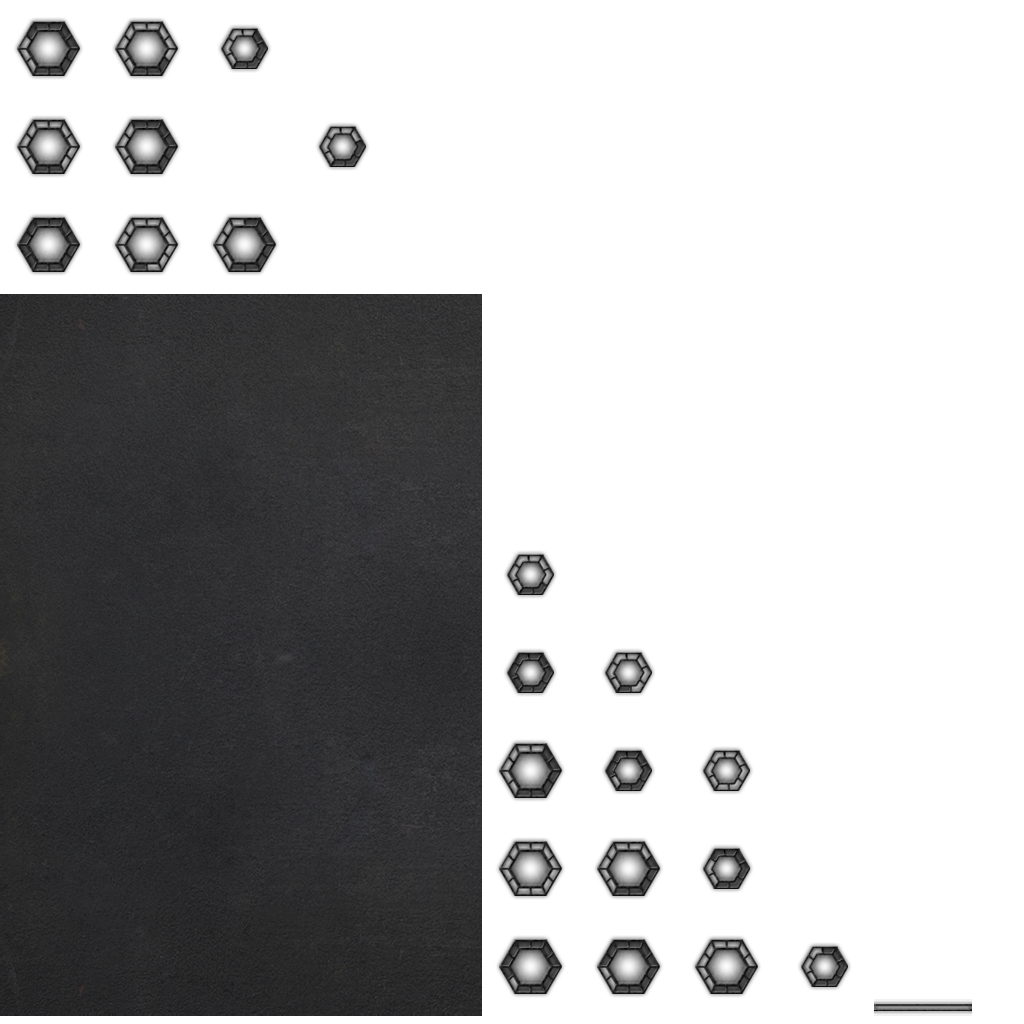
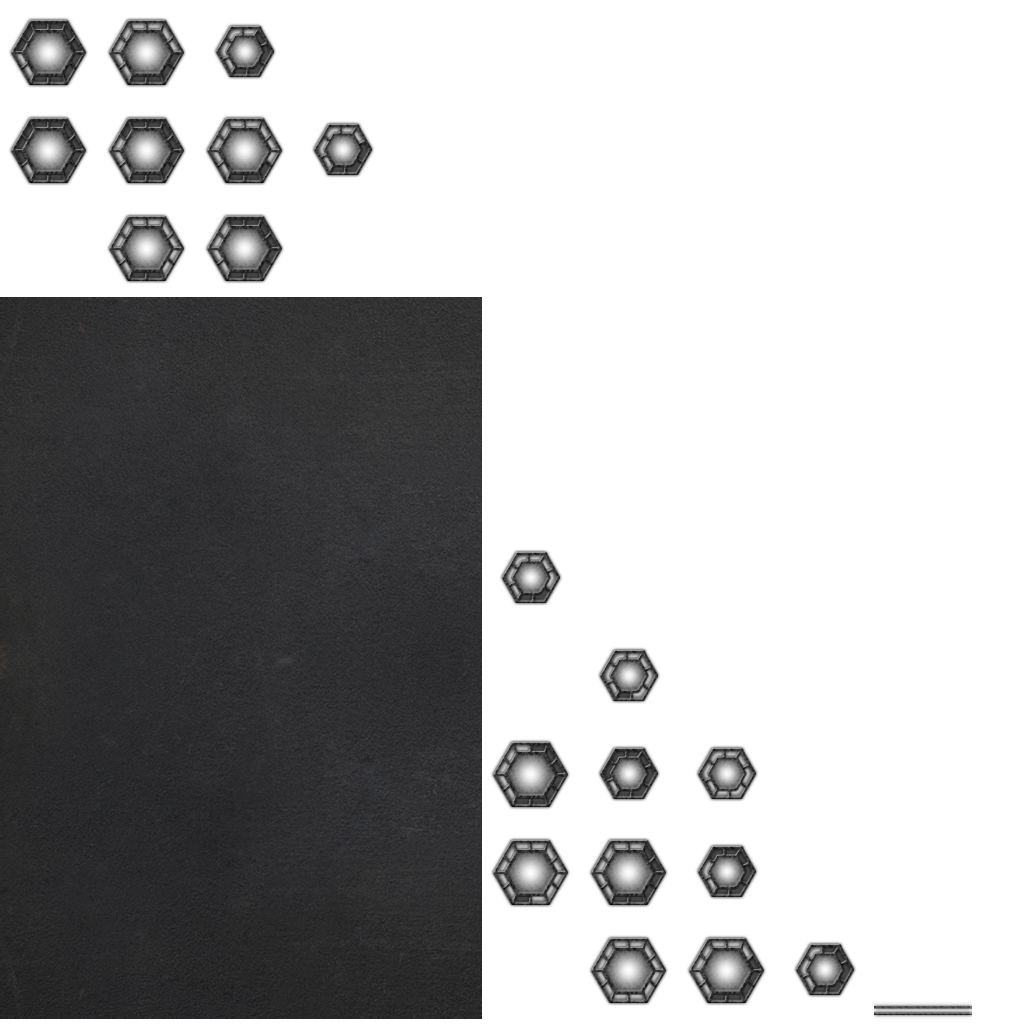
add backlight texture for selected cells, cells now bigger

diff --git a/influence/src/com/teremok/influence/view/CellDrawer.java b/influence/src/com/teremok/influence/view/CellDrawer.java
@@ -7,8 +7,6 @@ import com.badlogic.gdx.graphics.g2d.BitmapFont;
 import com.badlogic.gdx.graphics.g2d.SpriteBatch;
 import com.badlogic.gdx.graphics.g2d.TextureAtlas;
 import com.badlogic.gdx.graphics.g2d.TextureRegion;
-import com.badlogic.gdx.graphics.glutils.ShapeRenderer;
-import com.badlogic.gdx.scenes.scene2d.ui.Image;
 import com.badlogic.gdx.utils.Array;
 import com.teremok.influence.model.Cell;
 
@@ -17,14 +15,13 @@ import com.teremok.influence.model.Cell;
  */
 public class CellDrawer extends AbstractDrawer<Cell> {
 
-    private static final float STANDARD_SIZE_MULTIPLIER = 0.4f;
-    private static final float BIG_SIZE_MULTIPLIER = 0.6f;
-
     private TextureAtlas atlas;
     Array<TextureAtlas.AtlasRegion> cellSmall;
     Array<TextureAtlas.AtlasRegion> cellBig;
     TextureRegion maskSmall;
     TextureRegion maskBig;
+    TextureRegion backlightSmall;
+    TextureRegion backlightBig;
 
     public CellDrawer() {
         super();
@@ -34,13 +31,15 @@ public class CellDrawer extends AbstractDrawer<Cell> {
         for (Texture txt : atlas.getTextures()) {
             txt.setFilter(Texture.TextureFilter.Linear, Texture.TextureFilter.Linear);
         }
-        cellBig = atlas.findRegions("big");
 
         cellSmall = atlas.findRegions("small");
+        cellBig = atlas.findRegions("big");
 
         maskSmall = atlas.findRegion("maskSmall");
         maskBig = atlas.findRegion("maskBig");
 
+        backlightSmall = atlas.findRegion("backlightSmall");
+        backlightBig = atlas.findRegion("backlightBig");
     }
 
     @Override
@@ -58,19 +57,6 @@ public class CellDrawer extends AbstractDrawer<Cell> {
             drawSmallCell(batch);
         }
 
-        batch.end();
-
-        //drawBoundingBox();
-
-        renderer.begin(ShapeRenderer.ShapeType.Line);
-        if (current.isSelected()) {
-            renderer.setColor(Color.WHITE);
-            renderer.circle(current.getWidth()/2, current.getHeight()/2, Drawer.UNIT_SIZE * BIG_SIZE_MULTIPLIER);
-        }
-        renderer.end();
-
-        batch.begin();
-
         if (bitmapFont != null) {
             BitmapFont.TextBounds textBounds = bitmapFont.getBounds(current.getPower()+"");
             bitmapFont.setColor(Color.BLACK);
@@ -80,6 +66,11 @@ public class CellDrawer extends AbstractDrawer<Cell> {
     }
 
     private void drawBigCell(SpriteBatch batch) {
+
+        if (current.isSelected()){
+            batch.draw(backlightBig, current.getX(), current.getY());
+        }
+
         batch.draw(maskBig, current.getX(), current.getY());
         batch.setColor(Color.WHITE);
         if (current.getType() == -1)  {
@@ -90,6 +81,11 @@ public class CellDrawer extends AbstractDrawer<Cell> {
     }
 
     private void drawSmallCell(SpriteBatch batch) {
+
+        if (current.isSelected()){
+            batch.draw(backlightSmall, current.getX(), current.getY());
+        }
+
         batch.draw(maskSmall, current.getX(), current.getY());
         batch.setColor(Color.WHITE);
         if (current.getType() == -1)  {
@@ -97,21 +93,5 @@ public class CellDrawer extends AbstractDrawer<Cell> {
         } else {
             batch.draw(cellSmall.get(current.getPower()), current.getX(), current.getY());
         }
-    }
-
-    private void renderWithMultiplier(float multiplier) {
-        float centerX = current.getWidth()/2;
-        float centerY = current.getHeight()/2;
-
-        renderer.circle(centerX, centerY, Drawer.UNIT_SIZE * multiplier, 6);
-
-        renderer.setColor(Color.BLACK);
-
-        float powerArc = (float)current.getPower() / current.getMaxPower() * 360f;
-        renderer.arc(centerX, centerY, Drawer.UNIT_SIZE * multiplier * .7f, 90f, powerArc);
-
-        renderer.setColor(Drawer.getCellColorByType(current.getType()));
-        renderer.circle(centerX, centerY, Drawer.UNIT_SIZE * multiplier * .6f);
-
     }
 }
